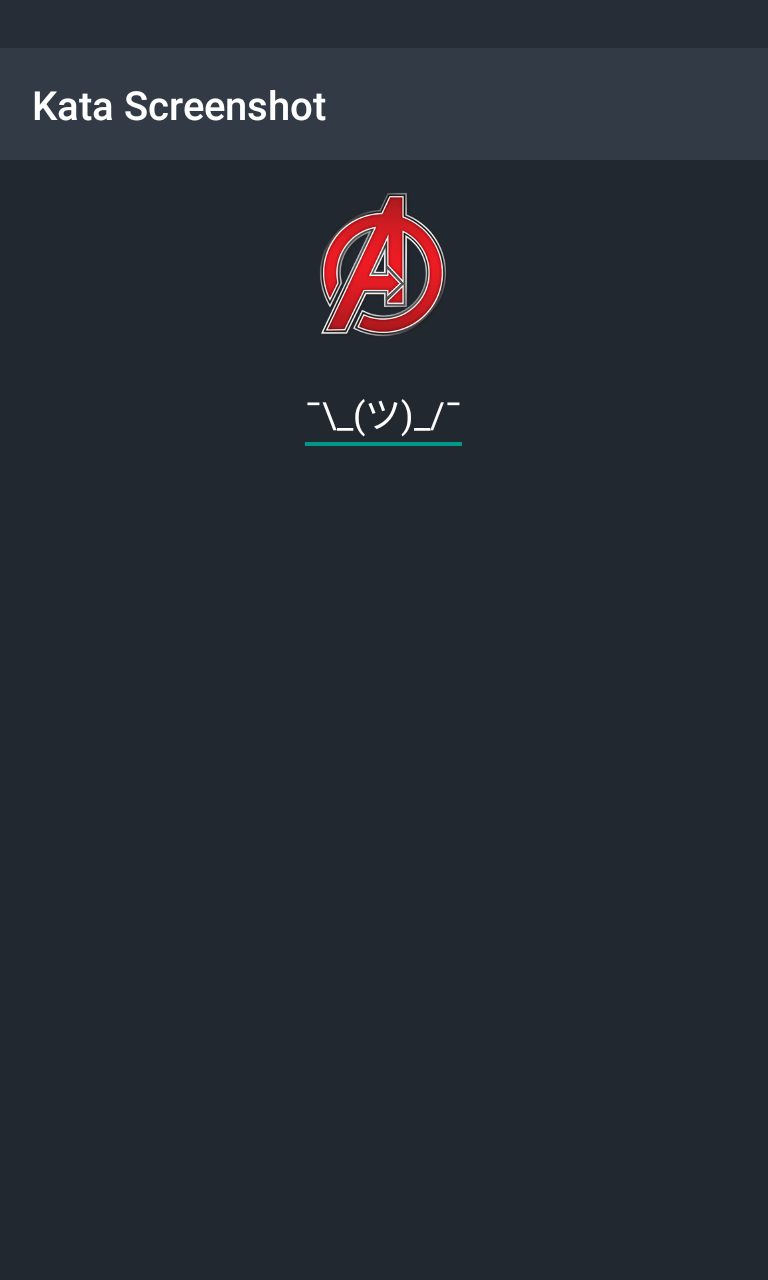
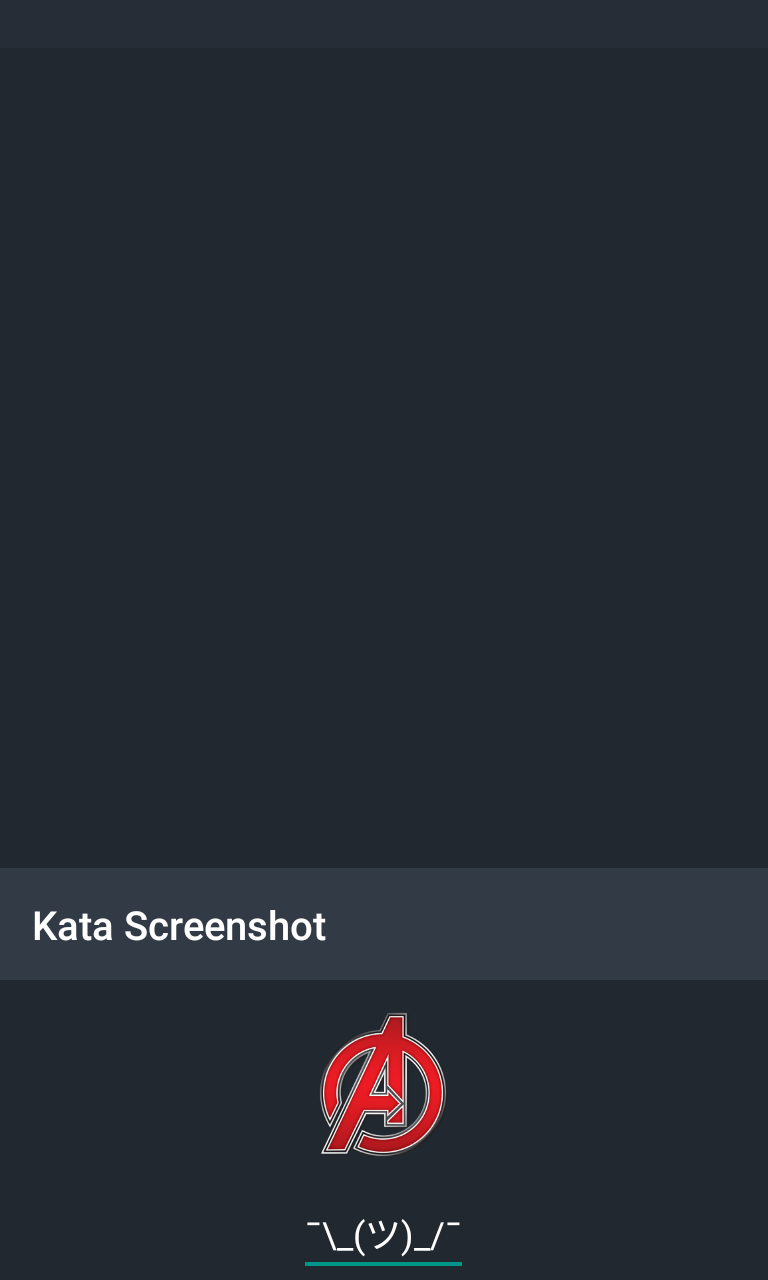
Fount the best implementation possible

diff --git a/shot-android/src/main/java/com/karumi/shot/KeyboardCloser.kt b/shot-android/src/main/java/com/karumi/shot/KeyboardCloser.kt
@@ -1,0 +1,43 @@
+package com.karumi.shot
+
+import android.app.Activity
+import android.graphics.Rect
+import android.os.Build
+import android.view.View
+import android.view.inputmethod.InputMethodManager
+import androidx.annotation.RequiresApi
+import kotlin.math.absoluteValue
+
+@RequiresApi(Build.VERSION_CODES.CUPCAKE)
+interface KeyboardCloser {
+
+    fun closeKeyboardAndWaitUntilIsNotVisible(activity: Activity) {
+        closeKeyboard(activity)
+        val rootView = activity.findViewById<View>(android.R.id.content).rootView
+        val measuredRect = Rect()
+        rootView.rootView.getWindowVisibleDisplayFrame(measuredRect)
+        val rootViewHeight = measuredRect.bottom - measuredRect.top
+        val screenHeight = rootView.rootView.height
+        val heightDiff: Int = (screenHeight - rootViewHeight).absoluteValue
+        val isKeyboardClosed = heightDiff < (screenHeight * 0.05)
+        if (!isKeyboardClosed) {
+            sleep(500)
+            closeKeyboardAndWaitUntilIsNotVisible(activity)
+        }
+    }
+
+    fun closeKeyboard(activity: Activity) {
+        val focusedView = activity.currentFocus
+        if (focusedView != null) {
+            activity.runOnUiThread {
+                val imm: InputMethodManager =
+                        activity.getSystemService(Activity.INPUT_METHOD_SERVICE) as InputMethodManager
+                imm.hideSoftInputFromWindow(focusedView.windowToken, 0)
+            }
+        }
+    }
+
+    private fun sleep(millis: Long) {
+        Thread.sleep(millis)
+    }
+}

diff --git a/shot-consumer/app/src/androidTest/java/com/karumi/ui/view/CursorActivityTest.kt b/shot-consumer/app/src/androidTest/java/com/karumi/ui/view/CursorActivityTest.kt
@@ -2,20 +2,21 @@ package com.karumi.ui.view
 
 import androidx.test.espresso.Espresso.onView
 import androidx.test.espresso.action.ViewActions.click
-import androidx.test.espresso.action.ViewActions.typeText
 import androidx.test.espresso.matcher.ViewMatchers.withId
 import com.github.salomonbrys.kodein.Kodein
 import com.karumi.R
+import com.karumi.shot.KeyboardCloser
 import org.junit.Test
 
 class CursorActivityTest : AcceptanceTest<CursorActivity>(
         CursorActivity::class.java
-) {
+), KeyboardCloser {
 
     @Test
     fun cursorIsNotVisibleOnScreenshot() {
         val activity = startActivity()
         onView(withId(R.id.et_cursor)).perform(click())
+        closeKeyboardAndWaitUntilIsNotVisible(activity)
         compareScreenshot(activity)
     }
 
